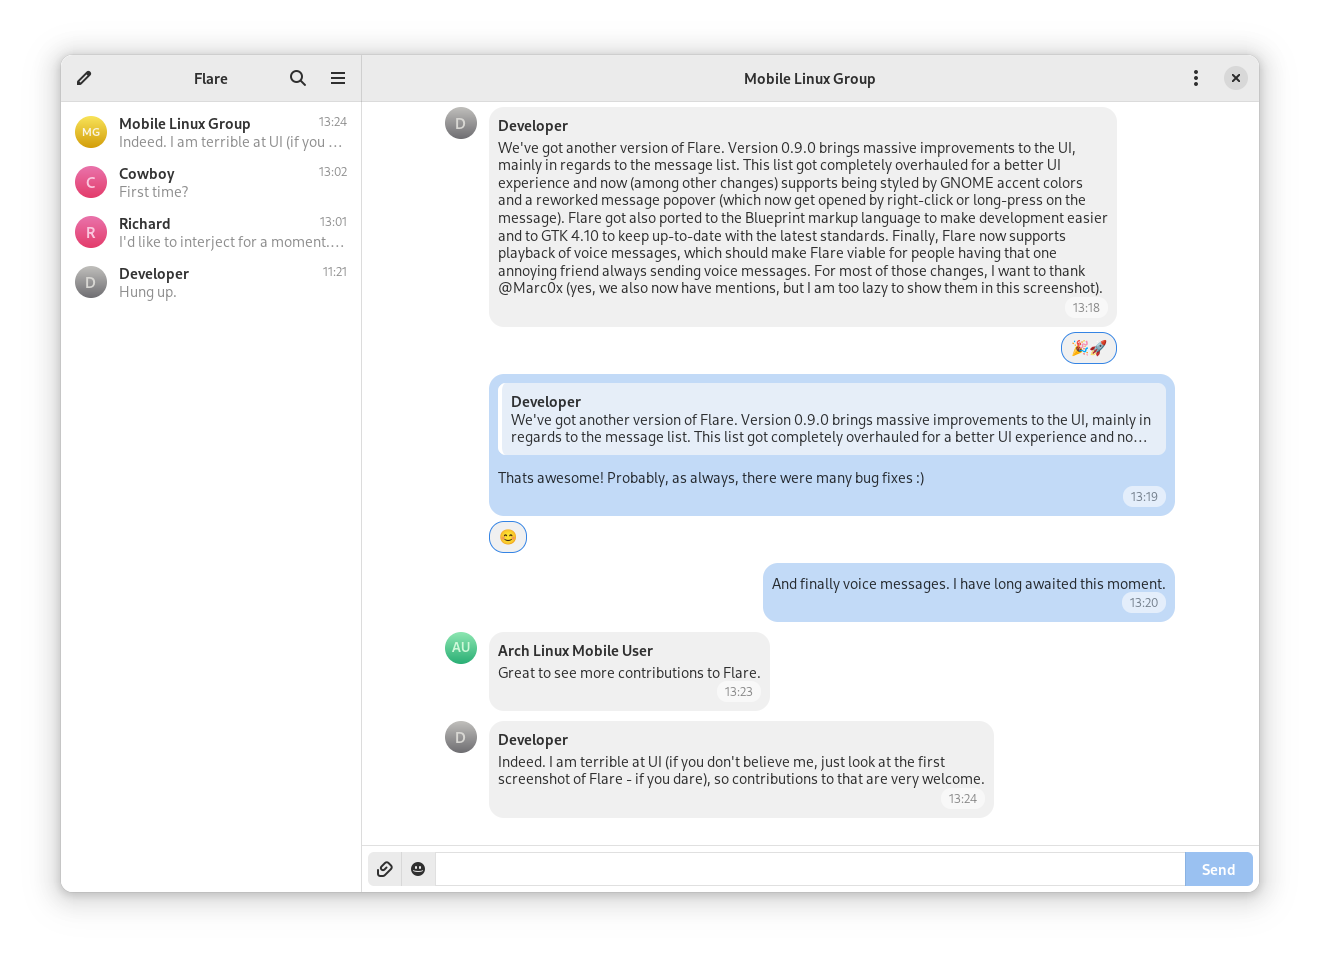
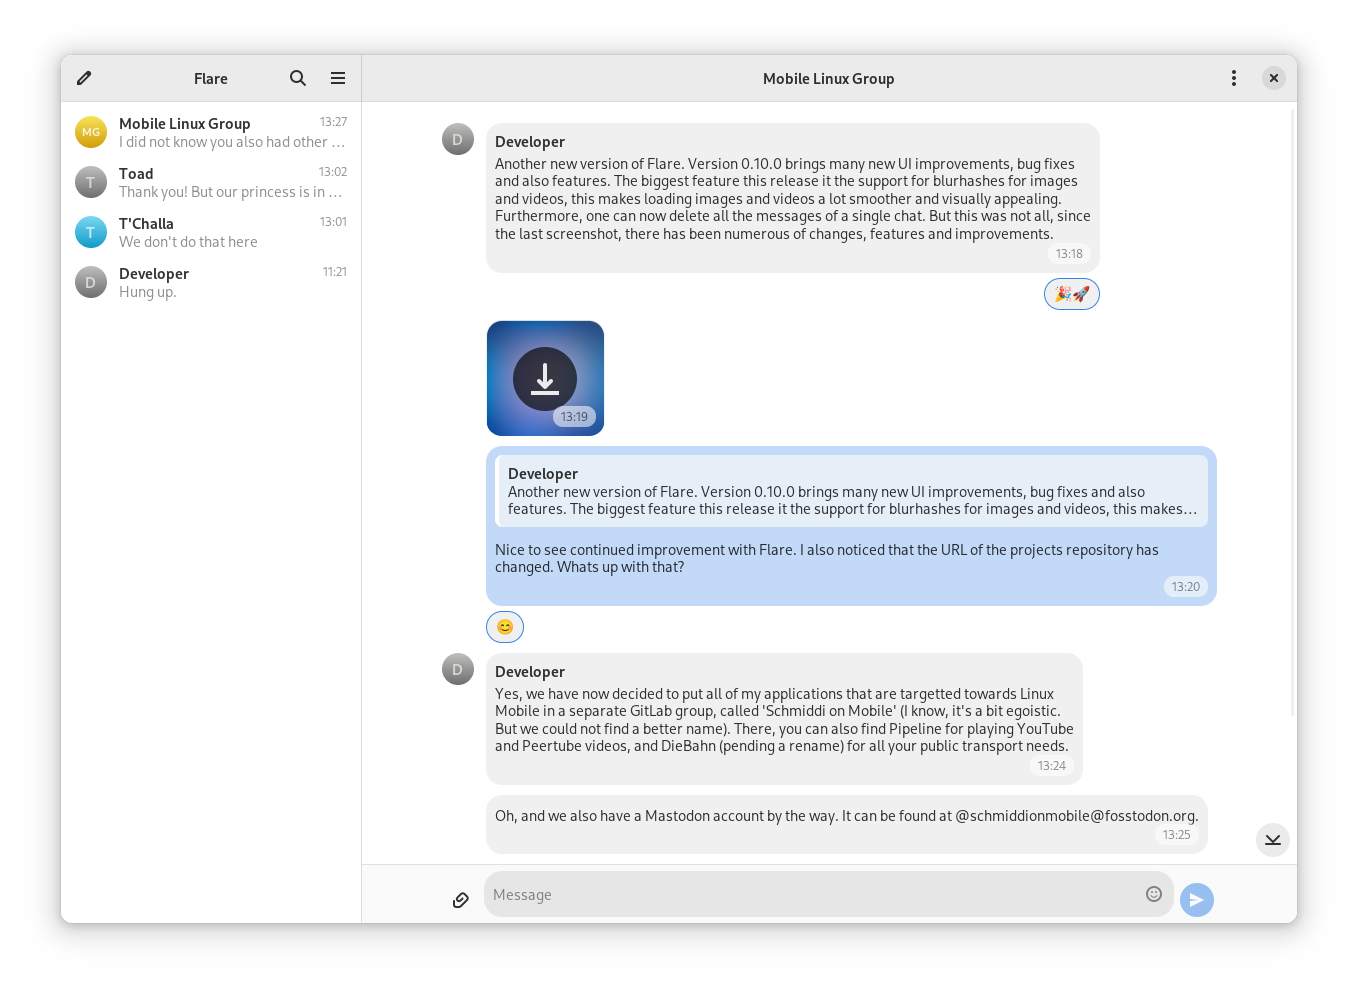
dummy(): Update screenshot

diff --git a/src/backend/dummy.rs b/src/backend/dummy.rs
@@ -97,7 +97,7 @@ pub fn dummy_presage_contacts() -> Vec<presage::prelude::Contact> {
         presage::prelude::Contact {
             uuid: Uuid::from_u128(3),
             phone_number: None,
-            name: "Richard".to_string(),
+            name: "T'Challa".to_string(),
             color: None,
             verified: Default::default(),
             profile_key: vec![],
@@ -110,7 +110,7 @@ pub fn dummy_presage_contacts() -> Vec<presage::prelude::Contact> {
         presage::prelude::Contact {
             uuid: Uuid::from_u128(4),
             phone_number: None,
-            name: "Cowboy".to_string(),
+            name: "Toad".to_string(),
             color: None,
             verified: Default::default(),
             profile_key: vec![],
@@ -196,17 +196,17 @@ impl super::Manager {
 
         let msg_replied = msg!(
             self,
-            "We've got another version of Flare. Version 0.9.0 brings massive improvements to the UI, mainly in regards to the message list. This list got completely overhauled for a better UI experience and now (among other changes) supports being styled by GNOME accent colors and a reworked message popover (which now get opened by right-click or long-press on the message). Flare got also ported to the Blueprint markup language to make development easier and to GTK 4.10 to keep up-to-date with the latest standards. Finally, Flare now supports playback of voice messages, which should make Flare viable for people having that one annoying friend always sending voice messages. For most of those changes, I want to thank @Marc0x (yes, we also now have mentions, but I am too lazy to show them in this screenshot).",
+            "Another new version of Flare. Version 0.10.0 brings many new UI improvements, bug fixes and also features. The biggest feature this release it the support for blurhashes for images and videos, this makes loading images and videos a lot smoother and visually appealing. Furthermore, one can now delete all the messages of a single chat. But this was not all, since the last screenshot, there has been numerous of changes, features and improvements.",
             2,
             GROUP_ID,
             18 + base_minute
         );
         let msg_reply = msg!(
             self,
-            "Thats awesome! Probably, as always, there were many bug fixes :)",
+            "Nice to see continued improvement with Flare. I also noticed that the URL of the projects repository has changed. Whats up with that?",
             0,
             GROUP_ID,
-            19 + base_minute
+            20 + base_minute
         );
         msg_reply
             .clone()
@@ -261,24 +261,31 @@ impl super::Manager {
             msg_reply,
             msg!(
                 self,
-                "And finally voice messages. I have long awaited this moment.",
-                0,
-                GROUP_ID,
-                20 + base_minute
-            ),
-            msg!(
-                self,
-                "Great to see more contributions to Flare.",
-                1,
-                GROUP_ID,
-                23 + base_minute
-            ),
-            msg!(
-                self,
-                "Indeed. I am terrible at UI (if you don't believe me, just look at the first screenshot of Flare - if you dare), so contributions to that are very welcome.",
+                "Yes, we have now decided to put all of my applications that are targetted towards Linux Mobile in a separate GitLab group, called 'Schmiddi on Mobile' (I know, it's a bit egoistic. But we could not find a better name). There, you can also find Pipeline for playing YouTube and Peertube videos, and DieBahn (pending a rename) for all your public transport needs.",
                 2,
                 GROUP_ID,
                 24 + base_minute
+            ),
+            msg!(
+                self,
+                "Oh, and we also have a Mastodon account by the way. It can be found at @schmiddionmobile@fosstodon.org.",
+                2,
+                GROUP_ID,
+                25 + base_minute
+            ),
+            msg!(
+                self,
+                "Yes, I already noticed that Mastodon account. Already following.",
+                0,
+                GROUP_ID,
+                26 + base_minute
+            ),
+            msg!(
+                self,
+                "I did not know you also had other apps. Will need to check them out.",
+                1,
+                GROUP_ID,
+                27 + base_minute
             ),
             call_msg!(
                 self,
@@ -300,12 +307,12 @@ impl super::Manager {
             ),
             msg!(
                 self,
-                "I'd like to interject for a moment. What you call",
+                "We don't do that here",
                 3,
                 3,
                 1 + base_minute
             ),
-            msg!(self, "First time?", 4, 4, 2 + base_minute),
+            msg!(self, "Thank you! But our princess is in another castle", 4, 4, 2 + base_minute),
         ]
     }
 
